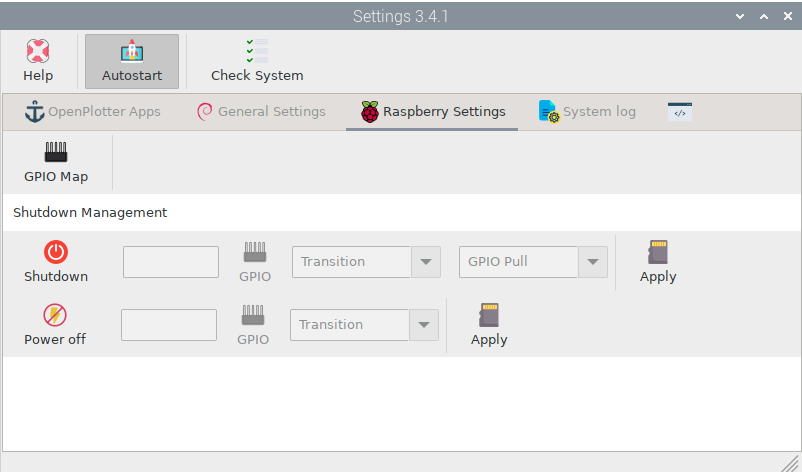
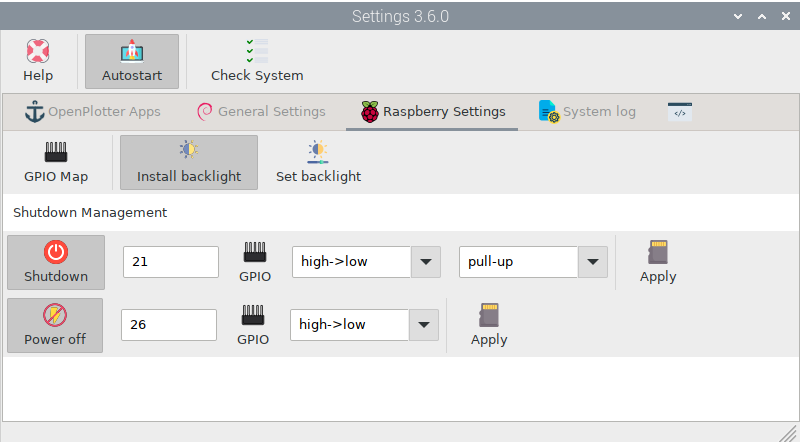
add backlight and touchscreen to settings

diff --git a/settings/settings_app.rst b/settings/settings_app.rst
@@ -22,18 +22,21 @@
 .. |GSdelay| image:: img/delay.png
 .. |GSplay| image:: img/play.png
 .. |GSfile| image:: img/file.png
-.. |GStime| image:: img/time.png
 .. |GSkeyboard| image:: img/keyboard.png
+.. |GStouch| image:: img/touchscreen.png
 .. |RSscreensaver| image:: img/screen.png
 .. |RSgpio| image:: img/chip.png
 .. |RSshutdown| image:: img/shutdown.png
 .. |RSpoweroff| image:: img/poweroff.png
 .. |RSapply| image:: img/apply.png
+.. |RSbrightness| image:: img/brightness.png
+.. |RSbrightnessInstall| image:: img/brightness-install.png
 .. |SLbug| image:: img/bug.png
 .. |SLall| image:: img/logsee.png
 .. |SLcat| image:: img/logcategory.png
 .. |SLsearch| image:: img/logsearch.png
 .. |SLdelete| image:: img/logremove.png
+.. |OPnotifications| image:: img/notifications.png
 
 |opsettings| OpenPlotter Settings
 #################################
@@ -144,6 +147,11 @@ Select any app and click this button to see all changes across versions.
 
 You can select any of the available languages and all OpenPlotter apps will be translated the next time you open them. You can help us with translations by clicking |GStranslate| ``Translate``.
 
+|GStouch| Touchscreen
+*********************
+
+After enabling this setting, most programs will display monster scrolls better for sailors' fingers and some programs like OpenCPN will be optimized for touchscreens.
+
 |GSresize| Maximize
 *******************
 
@@ -153,11 +161,6 @@ If you enable this option, all OpenPlotter applications will be maximized the ne
 *****************
 
 Here you can enable/disable the *Rescue* mode to help recover unstable systems due to some misconfigurations. For example if you set an action to reboot the system using the *OpenPlotter Notifications* app in response to some value of Signal K, it can cause a reboot loop. Using the *Rescue* mode disables all actions temporarily and you will be able to remove that killer setting.
-
-|GStime| NTP server
-*******************
-
-Usually OpenPlotter will not have an internet connection while sailing and cannot set the system time automatically. To solve this, the Signal K server collects the time of the GNSS signal and sets the system time. Enabling the NTP server allows other devices connected to the same network as OpenPlotter to update their system time as well. You need to configure the NTP client of your device to connect to the OpenPlotter NTP server.
 
 |GSkeyboard| Virtual keyboard
 ******************************
@@ -190,6 +193,22 @@ You can play a sound to notify you when the OpenPlotter startup process is compl
 Some apps will report which GPIO they are using and you can check it here. Checking a GPIO will return useful information about its usage.
 
 .. image:: img/settings10.png
+
+|RSbrightnessInstall| Install backlight
+***************************************
+
+Brightness on monitors that are connected via the DSI display port can be controlled by software. If you have a DSI touchscreens as the `official monitor for Raspberry Pi <https://www.raspberrypi.com/products/raspberry-pi-touch-display>`_ or any of `its clones <https://www.waveshare.com/8inch-DSI-LCD.htm>`_, you can install the necessary software to control brightness by clicking |RSbrightnessInstall| ``Install backlight`` button.
+
+|RSbrightness| Set backlight
+****************************
+
+After installing the required software, you will have access to a graphical interface to set the brightness using a slider.
+
+.. image:: img/setBacklight.png
+
+If you have the |OPnotifications| *OpenPlotter Notifications* app installed, you will see a new actions added to the list to automatically set the backlight value upon receiving a specific notification:
+
+.. image:: img/backlightAction.png
 
 |RSshutdown| Shutdown
 *********************
